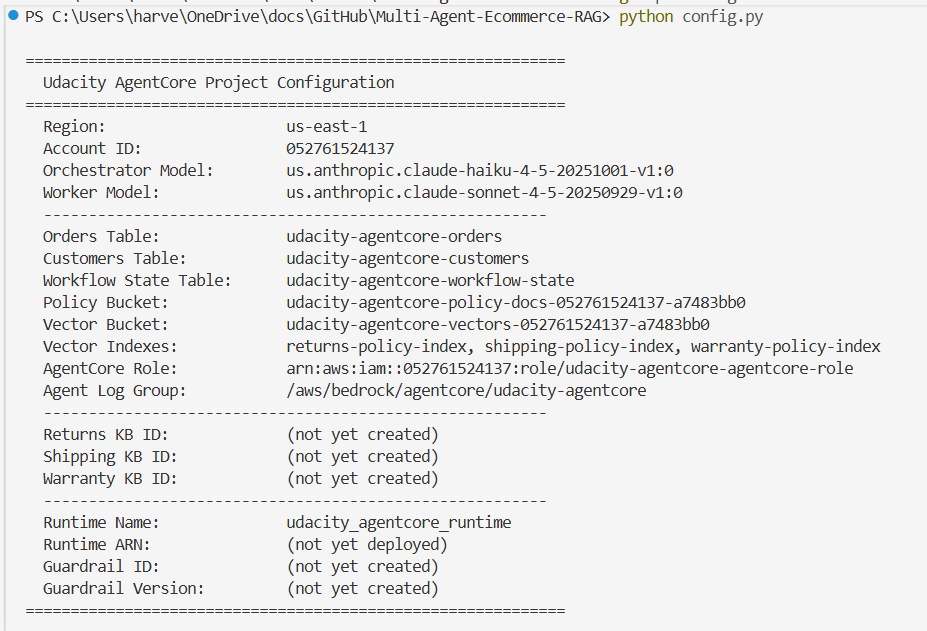
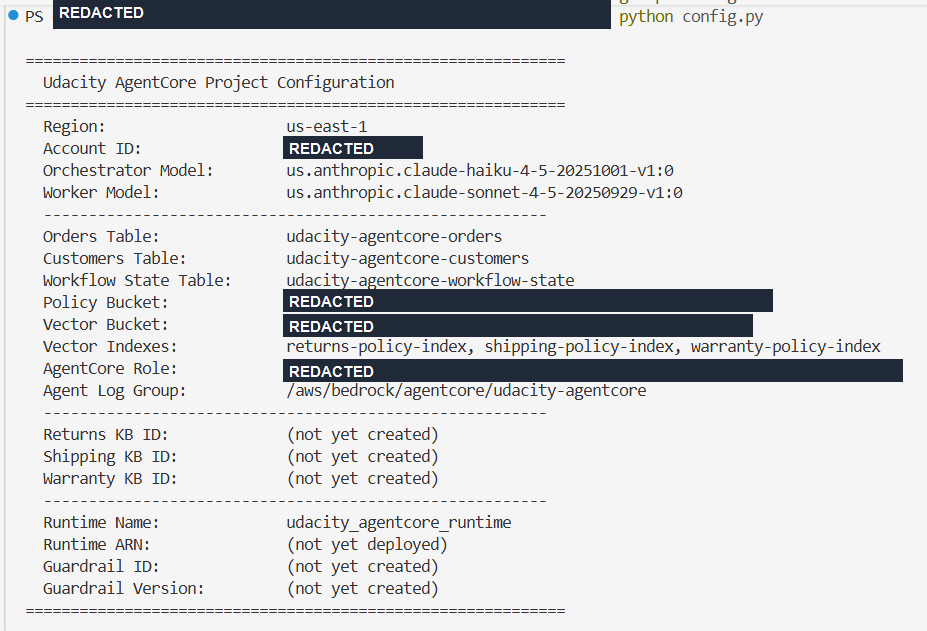
feat(knowledge-bases): created all three kbs, added their ids to env, and updated the progress report, tested kbs as well

Changed region(s): [[0.302, 0.4517, 0.9968, 0.6323], [0.0302, 0.0, 0.6645, 0.0602], [0.302, 0.2108, 0.4531, 0.271]]

diff --git a/config.py b/config.py
@@ -5,6 +5,8 @@
 import os
 from dotenv import load_dotenv
 
+load_dotenv()
+
 # REGION & PROJECT SETTINGS
 AWS_REGION   = os.environ.get('AWS_REGION', 'us-east-1')
 PROJECT_NAME = os.environ.get('PROJECT_NAME', 'udacity-agentcore')

diff --git a/progress-docs/project-report.md b/progress-docs/project-report.md
@@ -9,7 +9,7 @@
 **Stack name:** `udacity-agentcore`  
 **Project name:** `udacity-agentcore`
 
-> **Project status: In progress — not complete.** The three DynamoDB tables, policy-documents S3 bucket, S3 Vectors bucket, three vector indexes, AgentCore IAM role, and CloudWatch log group are visible in the AWS Console. The Returns index details confirm a 1024 dimension and cosine distance metric. The policy bucket's versioning and encryption settings have not yet been verified in the console. Inventory and Refund Agent builders, plus Workflow State helpers, are implemented in source. Manual CLI smoke tests cover Inventory lookups and Refund Agent denial/approval paths, including one successful return mutation. The refund harness injects its own order facts; it does not verify the complete Inventory-to-Refund workflow. Workflow State concurrency remains untested. Policy retrieval, Communication Agent, and orchestrator routing remain incomplete; Bedrock Knowledge Bases and the AgentCore runtime are not deployed.
+> **Project status: In progress — not complete.** The three DynamoDB tables, policy-documents S3 bucket, S3 Vectors bucket, three vector indexes, AgentCore IAM role, and CloudWatch log group are visible in the AWS Console. The Bedrock Knowledge Base overview lists Returns, Shipping, and Warranty as `Available`, each with one data source and zero last-sync warnings. Separate screenshots show completed source sync for Returns and Shipping; the overview shows `-` for Warranty's last-sync date, though a direct retrieval probe returned Warranty policy text. Manual boto3 retrieval probes returned 3 Returns, 2 Shipping, and 2 Warranty results for one sample query per domain. These are smoke checks, not a relevance evaluation or end-to-end agent test. Inventory and Refund Agent builders, plus Workflow State helpers, are implemented in source. Manual CLI smoke tests cover Inventory lookups and Refund Agent denial/approval paths, including one successful return mutation. Policy Agent integration, Communication Agent, and orchestrator routing remain incomplete, and the AgentCore runtime is not deployed.
 
 ## 1. Project Overview
 
@@ -78,6 +78,7 @@ The project was built incrementally. Each implementation step below has its code
 | 6 | Added deterministic seed data for DynamoDB and policy documents (`ed9350f`). | Section 11: seed write snippet, terminal run, then DynamoDB/S3 verification screenshots. |
 | 7 | Added the agent package, Inventory Agent setup, three DynamoDB data tools, and Agent construction (`f92ea25`, `a7b5a63`, `9ff912f`, `2d41a94`, `aafda28`, `c50db65`, `9718322`). | Section 11: model/prompt, DynamoDB tool code snapshots, and the `Agent` assembly added in `9718322`. |
 | 8 | Implemented the Refund Agent model, date-aware eligibility prompt, Workflow State context tool, and conditional DynamoDB return mutation (`210d198`, `3b5b116`). The latter commit also assigns the Inventory Agent its explicit name. | Sections 7 and 11: Workflow State helper behavior, Refund Agent prompt/tools, `smoke_refund.py` harness, and manual smoke-test outputs. |
+| 9 | Configured policy Knowledge Bases in the Bedrock console and ran one direct retrieval probe per domain. The overview lists all three as `Available`; the probes returned 3 Returns, 2 Shipping, and 2 Warranty results. | Section 9: console setup/status screenshots and manual retrieval smoke-test commands and outputs. |
 
 ### Agent Responsibilities
 
@@ -529,6 +530,89 @@ The Inventory and Refund Agent builders and Workflow State helpers are present i
 
 The agent system is not a replacement for deterministic validation. Customer identifiers, order identifiers, refund amounts, stock quantities, and policy eligibility thresholds should still use explicit validation and tests.
 
+### Step 9 — Creating Knowledge Bases in the Bedrock Console
+
+**Checkpoint — 2026-11-28:** Knowledge Base setup was performed manually in the Amazon Bedrock AgentCore console rather than through the repository's CloudFormation template. The screenshots record three domain-specific flows and a later overview:
+
+1. **Returns:** Created `returns-kb` with an Amazon S3 data source for the Returns policy prefix. The source used the default parser and default chunking. The Knowledge Base used Titan Text Embeddings v2 with 1024-dimensional float embeddings and the existing S3 Vectors `returns-policy-index`.
+2. **Returns sync and availability:** The console first showed the data source syncing, then reported sync completion. The Returns Knowledge Base overview showed status `Available` and its data source status `Available`. Its observability panel showed zero invocations at capture time; the separate direct retrieval smoke test below is later evidence and does not demonstrate an end-user agent call.
+3. **Shipping:** The console wizard was configured for `shipping-kb`, its S3 shipping-policy source, and the existing `shipping-policy-index`. A screenshot shows sync completed and `shipping-data-source` status `Available`; the all-KB overview also lists the Shipping Knowledge Base as `Available`.
+4. **Warranty:** The wizard screenshot shows `warranty-policy-index` selected during vector-store configuration. A later all-KB overview lists `warranty-kb` as `Available` with one data source and zero last-sync warnings. Its `Last sync date` is shown as `-`; a separate direct retrieval probe below returns Warranty policy text, confirming that relevant content is retrievable despite the missing date.
+
+The wizard screenshot copies below obscure S3 bucket names/URIs, AWS account identifiers, vector-store ARNs, Knowledge Base IDs, and generated service-role names. The overview screenshot at the end of this section contains only KB names, statuses, data-source counts, and sync-warning counts.
+
+#### Returns Knowledge Base
+
+The creation wizard names the Knowledge Base `returns-kb` and configures an S3 source. The source configuration uses the Returns policy prefix and Amazon Bedrock's default parser:
+
+![Returns Knowledge Base details and S3 source selection](./images/bedrock-kb-returns-create.png)
+
+![Returns data-source setup with the S3 URI redacted](./images/bedrock-kb-returns-data-source.png)
+
+![Default parser and chunking options for the Returns source](./images/bedrock-kb-returns-parser-chunking.png)
+
+The storage step selects Titan Text Embeddings v2 and the existing S3 Vectors store. The vector bucket ARN and index ARN are redacted; the index selection is documented as the Returns index:
+
+![Returns Knowledge Base embedding model and vector-store type](./images/bedrock-kb-returns-embedding-vector-setup.png)
+
+![Returns Knowledge Base connected to the existing vector index; identifiers redacted](./images/bedrock-kb-returns-vector-index-selection.png)
+
+The console shows the source entering sync and then completing. The Knowledge Base overview shows the KB and data source available:
+
+![Returns data source synchronization in progress](./images/bedrock-kb-returns-syncing.png)
+
+![Returns Knowledge Base overview after sync, with Available status](./images/bedrock-kb-returns-available.png)
+
+![Returns Knowledge Base embedding dimensions and vector-store configuration; ARN redacted](./images/bedrock-kb-returns-configuration-details.png)
+
+![Returns data source listed as Available](./images/bedrock-kb-returns-data-source-available.png)
+
+![Knowledge Base console list showing returns-kb as Available](./images/bedrock-kb-console-list.png)
+
+The captured Returns observability panel reported zero invocations and a zero-percent invocation error rate at that time. The separate CLI probes below provide direct retrieval evidence; neither capture assesses retrieval quality or end-user agent behavior.
+
+#### Shipping Knowledge Base
+
+The Shipping wizard names `shipping-kb`, selects an S3 data source for Shipping policy documents, and connects to the existing Shipping vector index. Resource identifiers are redacted:
+
+![Shipping Knowledge Base details and generated service role; role name redacted](./images/bedrock-kb-shipping-create.png)
+
+![Shipping S3 data-source configuration with bucket URI redacted](./images/bedrock-kb-shipping-data-source.png)
+
+![Shipping Knowledge Base configured to use its existing vector index; ARNs redacted](./images/bedrock-kb-shipping-vector-index-selection.png)
+
+The review screen shows the Shipping Knowledge Base create workflow and service-role creation in progress. A later source-details screen reports sync completion and an `Available` status for `shipping-data-source`:
+
+![Shipping Knowledge Base review screen while role creation is in progress](./images/bedrock-kb-shipping-review-create.png)
+
+![Shipping data-source sync completed and source status Available](./images/bedrock-kb-shipping-data-source-available.png)
+
+The source-details screenshot does not show invocation metrics. The later all-KB overview confirms the Shipping Knowledge Base status is `Available`, and the direct retrieval probe below returns Shipping policy text; neither demonstrates agent integration or retrieval quality.
+
+#### Warranty Knowledge Base Setup
+
+The provided Warranty wizard screenshot reaches the vector-store selection stage and selects the Warranty policy index:
+
+![Warranty Knowledge Base wizard at vector-index selection; identifiers redacted](./images/bedrock-kb-warranty-vector-index-selection.png)
+
+The later console overview confirms that `warranty-kb` exists and is `Available`, with one data source and zero last-sync warnings. Its `Last sync date` is `-`; the manual retrieval check below provides separate evidence that Warranty policy content is retrievable:
+
+![Bedrock Knowledge Bases overview listing Returns, Shipping, and Warranty as Available](./images/bedrock-kb-overview-all-available.png)
+
+#### Manual Retrieval Smoke Tests
+
+The following one-off Python CLI probes used `boto3`'s Bedrock Agent Runtime `retrieve()` operation, the corresponding `config.*_KB_ID`, and one query per domain. The command printed the result count and the first 100 characters of each retrieved text:
+
+| Knowledge Base | Sample query | Retrieved results | Output evidence |
+|---|---|---:|---|
+| Returns | `return window for premium customers` | 3 | Excerpts included the NovaMart Return Policy and Customer Tier Program. |
+| Shipping | `how long does standard shipping take?` | 2 | Excerpts included the NovaMart Shipping Policy and Customer Tier Program. |
+| Warranty | `what does the warranty cover?` | 2 | Excerpts included the NovaMart Warranty Policy and Customer Tier Program. |
+
+![Manual direct retrieval smoke tests for Returns, Shipping, and Warranty Knowledge Bases](./images/bedrock-kb-retrieval-smoke-tests.png)
+
+These results verify that each KB returned text for its sample query, including Warranty content despite the overview's `-` last-sync date. The probes are narrow smoke tests: they do not assess ranking or relevance across varied queries, validate complete policy coverage, generate final answers, or exercise the application agents/orchestrator.
+
 ## 10. Step 6 — Python Configuration
 
 `config.py` centralizes runtime configuration. It combines local environment settings with values exported by the CloudFormation stack, so code can resolve deployed resource names instead of hard-coding account-specific identifiers.
@@ -538,13 +622,22 @@ The agent system is not a replacement for deterministic validation. Customer ide
 | Code element | What it does |
 |---|---|
 | `import os` | Reads process environment variables such as `AWS_REGION` and `PROJECT_NAME`. |
-| `from dotenv import load_dotenv` | Imports the helper that can load values from a `.env` file. In the current file, it is imported but never called. |
+| `from dotenv import load_dotenv` | Imports the helper used to load local values from the repository's `.env` file. |
+| `load_dotenv()` | Loads `.env` values into `os.environ` before the configuration module reads its environment settings. Existing process environment values are not overwritten by default. |
 | `AWS_REGION` | Reads `AWS_REGION`; defaults to `us-east-1`. Selects the AWS Region for boto3 clients. |
 | `PROJECT_NAME` | Reads `PROJECT_NAME`; defaults to `udacity-agentcore`. Also forms the prefix used to find the stack's exports. |
 | `ORCHESTRATOR_MODEL_ID` | Configures the intended faster/less costly routing model. This is a model identifier constant; it does not itself call the model. |
 | `WORKER_MODEL_ID` | Configures the intended worker model for more involved reasoning and response generation. It does not itself start an agent. |
 
-These are environment fallbacks rather than `.env` loading: because `load_dotenv()` is not called, values in a local `.env` file will not become available through this module unless another entry point loads them first. Shell or process environment variables do work.
+The loader is called near the top of `config.py`, before values such as `AWS_REGION` and the lazy Knowledge Base ID lookups are evaluated:
+
+```python
+from dotenv import load_dotenv
+
+load_dotenv()
+```
+
+This fixes a configuration issue where `load_dotenv` was imported but never called. The KB lookup helper reads `os.environ` first, so IDs present only in `.env` were previously unavailable to it. After adding the call, a runtime check confirmed all three KB ID variables were loaded and the corresponding `config.RETURNS_KB_ID`, `config.SHIPPING_KB_ID`, and `config.WARRANTY_KB_ID` values resolved. The ID values are intentionally not reproduced in this report.
 
 ### CloudFormation Export Loading
 
@@ -563,7 +656,7 @@ These are environment fallbacks rather than `.env` loading: because `load_dotenv
 | `_get(key, fallback_env=None)` | Looks up the export named `{PROJECT_NAME}-{key}`; optionally checks the named environment variable if the export value is missing; otherwise raises `ConfigError`. | Required resource names and ARNs. |
 | `_get_env(key, required=True)` | Reads an environment variable and raises `ConfigError` if it is required but empty. | Available for settings that are not in CloudFormation; it is not currently called elsewhere in this file. |
 | `_account_id()` | Calls STS `GetCallerIdentity` in `AWS_REGION` and returns the account ID. | Supplies the account identifier shown by `print_config()`. |
-| `_get_kb_id(cf_key, env_key)` | Checks the environment variable first, then the matching CloudFormation export. If export loading raises `ConfigError`, returns an empty string. | Optional Returns, Shipping, and Warranty Knowledge Base IDs, which have not yet been created/exported. |
+| `_get_kb_id(cf_key, env_key)` | Checks the environment variable first, then the matching CloudFormation export. If export loading raises `ConfigError`, returns an empty string. | Optional Returns, Shipping, and Warranty Knowledge Base IDs. The console-created KB IDs are not exported by the current CloudFormation template and must be configured separately when needed. |
 | `_get_optional_export(cf_key, env_key, default='')` | Checks the environment variable first, then CloudFormation, then returns the default. It returns the default if export loading raises `ConfigError`. | Optional Guardrail ID and version. |
 
 ### Lazy Configuration Values
@@ -579,7 +672,7 @@ These are environment fallbacks rather than `.env` loading: because `load_dotenv
 | `RETURNS_VECTOR_INDEX`, `SHIPPING_VECTOR_INDEX`, `WARRANTY_VECTOR_INDEX` | The three vector-index exports | Select the index for the corresponding policy domain. |
 | `AGENTCORE_ROLE_ARN` | `AgentCoreRoleArn` export | Identify the execution role. |
 | `AGENT_LOG_GROUP` | `AgentLogGroup` export | Identify the CloudWatch log group. |
-| `RETURNS_KB_ID`, `SHIPPING_KB_ID`, `WARRANTY_KB_ID` | Environment variable first, then `{PROJECT_NAME}-ReturnsKbId`, `...-ShippingKbId`, or `...-WarrantyKbId` export | Optional IDs for the Knowledge Bases, not yet available in the current template. |
+| `RETURNS_KB_ID`, `SHIPPING_KB_ID`, `WARRANTY_KB_ID` | Environment variable first, then `{PROJECT_NAME}-ReturnsKbId`, `...-ShippingKbId`, or `...-WarrantyKbId` export | Optional IDs for manually created Knowledge Bases. The current CloudFormation template does not export these IDs; configure them separately for application use. |
 | `GUARDRAIL_ID`, `GUARDRAIL_VERSION` | Environment variable first, then optional corresponding export | Optional guardrail settings, not yet created/exported. |
 
 When a lazy lookup succeeds, `__getattr__` stores stable resource values in the module's globals so subsequent access does not repeat the lookup. Knowledge Base and Guardrail values are deliberately not cached, allowing those optional values to reflect later environment changes during the process. Unknown names raise `AttributeError`, as expected for a Python module.
@@ -607,11 +700,15 @@ When a lazy lookup succeeds, `__getattr__` stores stable resource values in the 
 | `print_config()` | Prints region, account, model identifiers, resource names, optional Knowledge Base/Guardrail values, and runtime details. |
 | `if __name__ == '__main__':` | Calls `print_config()` only when running `python config.py`; importing `config` does not print the report. |
 
-The terminal capture below shows the diagnostic run: AWS identity and CloudFormation exports resolve, while Knowledge Base IDs, runtime ARN, and Guardrail settings display their expected not-yet-configured placeholders. The derived runtime name is printed even though the runtime itself is not deployed.
+The terminal capture below predates the console Knowledge Base setup documented in section 9. At that time, AWS identity and CloudFormation exports resolved, while Knowledge Base IDs, runtime ARN, and Guardrail settings displayed not-yet-configured placeholders. The derived runtime name is printed even though the runtime itself is not deployed.
 
 The configuration loader grew in two commits: `152d855` added region/project/model settings and initial export loading; `abc646e` added cached CloudFormation export resolution and optional Knowledge Base/Guardrail fallbacks.
 
 ![config.py output with resolved AWS resources and pending values](./images/config-py-console-output.png)
+
+After adding `load_dotenv()`, `python config.py` was run again. The updated output shows values for all three Knowledge Base IDs, confirming that the configuration now reads them from `.env`. This verifies configuration loading only; it does not validate the IDs against Bedrock or demonstrate retrieval. The account ID, account-specific bucket names, execution-role ARN, Knowledge Base IDs, and local terminal paths are redacted in the report copy.
+
+![config.py output after loading the local environment file](./images/config-env-ids-loaded.png)
 
 ### Current Boundaries and Follow-Up
 
@@ -619,9 +716,9 @@ The configuration loader grew in two commits: `152d855` added region/project/mod
 |---|---|
 | Table names, bucket names, index names, role ARN, and log-group name print successfully. | It does not mean Python agents are implemented or using those resources. |
 | `ACCOUNT_ID` resolves from STS. | The account ID is not a CloudFormation output; it comes from the credentials active in the environment. |
-| Knowledge Base IDs show `(not yet created)`. | The current CloudFormation template exports bucket/index names, not Knowledge Base IDs. |
+| The earlier config diagnostic shows Knowledge Base IDs as `(not yet created)`. | That capture predates the console setup in section 9. The current CloudFormation template exports bucket/index names, not Knowledge Base IDs, so manually created IDs still need to be configured separately for application use. |
 | `AGENT_LOG_GROUP` resolves from the `AgentLogGroup` export. | The application does not yet write logs there merely because the name resolves. |
-| `load_dotenv` is imported. | The module does not load `.env` by itself because `load_dotenv()` is not called. |
+| `config.py` calls `load_dotenv()` before reading settings. | This makes local `.env` values available to the configuration code; it does not validate the KB IDs against Bedrock or prove retrieval is working. |
 
 The printed values are a useful smoke check for AWS credentials, region selection, stack exports, and missing optional configuration. Keep real credentials out of the report and repository.
 
@@ -663,6 +760,16 @@ The script output reports four customer records and eleven orders. The DynamoDB 
 ![DynamoDB scan showing the eleven seeded order items](./images/dynamodb-seeded-orders.png)
 
 The following S3 console views verify the policy bucket prefix, the three policy-domain folders, and the two expected objects in each folder.
+
+To verify the uploaded objects independently from the AWS Console, the policy bucket was listed recursively with the AWS CLI:
+
+```powershell
+aws s3 ls s3://udacity-agentcore-policy-docs-052761524137-a7483bb0/policies/ --recursive
+```
+
+The command returned six objects: two return-policy files under `policies/returns/`, two shipping-policy files under `policies/shipping/`, and two warranty-policy files under `policies/warranty/`.
+
+![AWS CLI recursive listing confirming policy documents in the S3 bucket](./images/policy-documents-s3-cli-verification.png)
 
 ![S3 policy-documents bucket showing the policies prefix](./images/s3-policy-prefix.png)
 
@@ -870,7 +977,7 @@ return Agent(
 )
 ```
 
-The system prompt directs the agent to make the eligibility decision; the mutation tool itself checks that the keyed order exists, but does not independently enforce delivery status or tier/date eligibility. Add deterministic eligibility and authorization checks before relying on this mutation path in production. Policy Knowledge Base retrieval and Orchestrator routing are still unimplemented.
+The system prompt directs the agent to make the eligibility decision; the mutation tool itself checks that the keyed order exists, but does not independently enforce delivery status or tier/date eligibility. Add deterministic eligibility and authorization checks before relying on this mutation path in production. Policy Agent integration of Knowledge Base retrieval and Orchestrator routing are still unimplemented.
 
 #### Refund Agent Smoke Tests — 2026-11-26
 
@@ -958,7 +1065,7 @@ The filtered scan returned `Count: 0` with `ScannedCount: 11`; the full scan ret
 
 These manual checks do not replace automated boundary tests or a complete orchestrated workflow test.
 
-The deployed resources are infrastructure, not a complete application. Agent code is in progress; Knowledge Bases, AgentCore runtime deployment, active log emission, and end-to-end RAG are not yet implemented.
+The deployed resources and console-created Knowledge Bases are not a complete application. All three KBs are `Available`, and direct `retrieve()` smoke tests returned policy text for one query per domain; broad relevance evaluation and integration with the application agents/orchestrator remain unverified. Agent code is in progress; Policy Agent integration, AgentCore runtime deployment, active log emission, and end-to-end RAG are not yet implemented.
 
 ## 12. Design Decisions and Tradeoffs
 
@@ -974,10 +1081,10 @@ These are the decisions reflected in the current infrastructure or target design
 | Orders table key | `customer_id` partition key plus `order_id` sort key. | Supports listing one customer's orders and identifying one order using both key values. | Queries must follow this access pattern; this key does not make arbitrary order attributes searchable. |
 | Workflow state | One item per `session_id`, with a 24-hour TTL and version-based conditional updates. | Provides a shared durable record and prevents stale concurrent writes from silently overwriting newer state. | Create/read/update helpers and bounded conflict retries are implemented in source, but concurrent-write and TTL behavior have not been integration-tested. Expiration is asynchronous. |
 | Orders stream | `NEW_AND_OLD_IMAGES`. | Retains before-and-after item images for possible future event-driven processing. | A stream consumer is not implemented. Stream processing adds operational complexity and may incur additional charges. |
-| Policy storage | Regular S3 bucket for source documents; separate S3 Vectors bucket and one index per policy domain. | Keeps original documents separate from vector-search data and isolates Returns, Shipping, and Warranty retrieval. | Knowledge Bases, document ingestion/sync, and end-to-end retrieval are not yet implemented. |
-| Vector settings | `float32`, dimension `1024`, cosine distance, and `AMAZON_BEDROCK_TEXT` as non-filterable metadata. | Matches the intended embedding and retrieval configuration documented for this project. | Dimension must match the embedding model; verify actual Knowledge Base configuration and retrieval behavior when implemented. |
+| Policy storage | Regular S3 bucket for source documents; separate S3 Vectors bucket and one index per policy domain. All three KBs appear `Available`; direct retrieval probes return policy text for all three. | Keeps original documents separate from vector-search data and isolates policy domains. | Only one query per KB has been tried; ranking, coverage, and retrieval quality are not evaluated, and retrieval is not yet integrated into the Policy Agent workflow. |
+| Vector settings | `float32`, dimension `1024`, cosine distance, and `AMAZON_BEDROCK_TEXT` as non-filterable metadata. | Matches the intended embedding and retrieval configuration documented for this project. | Dimension must match the embedding model; evaluate retrieval quality with additional queries and verify configuration details as coverage expands. |
 | Naming | Prefix resource names with `ProjectName`; add account/stack-derived uniqueness to bucket names. | Gives resources a recognizable project identity while reducing global S3 name collisions. | AWS naming limits and uniqueness requirements still apply; generated names should be verified after deployment. |
-| Agent coordination | Inventory and Refund Agent builders are implemented; the Orchestrator and Policy/Communication builders remain unfinished. Policy retrieval is designed to be parallel. | Separates factual lookup, refund decisions, policy retrieval, and response generation into specialist roles. | The end-to-end orchestrator and Knowledge Base retrieval are not implemented or deployed; the worker builders have not all been integrated or tested together. |
+| Agent coordination | Inventory and Refund Agent builders are implemented; the Orchestrator and Policy/Communication builders remain unfinished. Policy retrieval is designed to be parallel. | Separates factual lookup, refund decisions, policy retrieval, and response generation into specialist roles. | Direct KB retrieval has only been smoke-tested outside the agents; the end-to-end orchestrator and worker integration are not implemented or tested. |
 | CloudWatch log retention | Dedicated log group with `RetentionInDays: 14`. | Keeps the planned AgentCore log destination explicit and limits how long log events are retained. | Retention controls stored log events, not whether logs are produced. Ingestion and retained data can incur charges; an empty log group is not proof of working runtime logging. |
 
 ## 13. Reliability and Failure Handling
@@ -1214,6 +1321,10 @@ The project is partially complete. The following status distinctions are importa
 - Policy-documents S3 bucket contains the seeded policy files shown directly in section 11; versioning and encryption settings still need separate console verification.
 - S3 Vectors bucket and Returns, Shipping, and Warranty indexes are visible in the AWS Console.
 - Returns vector index overview shows dimension `1024` and cosine distance metric.
+- The Bedrock Knowledge Base overview lists Returns, Shipping, and Warranty as `Available`, each with one data source and zero last-sync warnings.
+- Direct `retrieve()` smoke tests returned 3 Returns, 2 Shipping, and 2 Warranty results with excerpts from the corresponding policy content. This demonstrates basic retrieval for one sample query per KB, not retrieval quality or complete document coverage.
+- The overview's `Last sync date` is `-` for each KB. Separate screenshots show completed source sync for Returns and Shipping; Warranty has no explicit sync-completion screenshot, though its policy content was returned by the direct retrieval probe.
+- The Returns observability panel showed zero invocations at capture time; the later CLI probes are separate from an end-user agent call.
 - `udacity-agentcore-agentcore-role` is visible in IAM with the `AgentCoreProjectPolicy` inline policy name and Bedrock / Bedrock AgentCore trusted-service principals.
 - CloudWatch log group `/aws/bedrock/agentcore/udacity-agentcore` is visible with a two-week retention setting; log-event ingestion by an application runtime is not yet verified.
 
@@ -1221,13 +1332,14 @@ The project is partially complete. The following status distinctions are importa
 
 - CloudFormation definitions for the S3 policy-document bucket, S3 Vectors bucket, three indexes, AgentCore execution role with its trust and permissions policies, and CloudWatch log group; the template passes `cfn-lint`.
 - AgentCore CLI configuration and CDK scaffold under `agentcore/`. Its deployment target list is empty, and its configured Python 3.12 runtime entry point/package are not yet present; no AgentCore runtime has been deployed.
-- Python configuration and package code, including the Inventory and Refund Agent builders, their prompts/tools, and Workflow State create/read/update helpers with optimistic locking; implementation details and validation limits are recorded in sections 7 and 11.
+- Bedrock console configuration and status evidence for the Returns, Shipping, and Warranty Knowledge Bases is documented in section 9; these resources are not defined by the current CloudFormation template.
+- Python configuration and package code, including `.env` loading for manually configured KB IDs, the Inventory and Refund Agent builders, their prompts/tools, and Workflow State create/read/update helpers with optimistic locking; implementation details and validation limits are recorded in sections 7, 10, and 11.
 - Unit-test scaffold and UV dependency management.
 - Architecture diagrams and design notes.
 
 ### Not Yet Implemented or Verified
 
-- Bedrock Knowledge Base creation, synchronization, and retrieval.
+- Broad retrieval relevance/coverage testing and end-to-end agent-to-KB integration. The current evidence is one direct query per KB, returning 3 Returns, 2 Shipping, and 2 Warranty results; Warranty content is retrievable, but no explicit sync-completion screenshot is available.
 - Complete orchestrator and specialist-agent workflow. Inventory and Refund Agent builders are implemented, but Policy and Communication Agent construction and Orchestrator routing still contain TODOs.
 - AgentCore runtime entry point/package, deployment target configuration, and runtime deployment. The scaffold currently declares `agent_orchestrator.py` under `build/runtime/` and Python 3.12.
 - Workflow State helpers and the Refund Agent's conditional DynamoDB return mutation exist in source; smoke case D shows one successful update, but automated conditional-write and failure-path tests are still outstanding.
